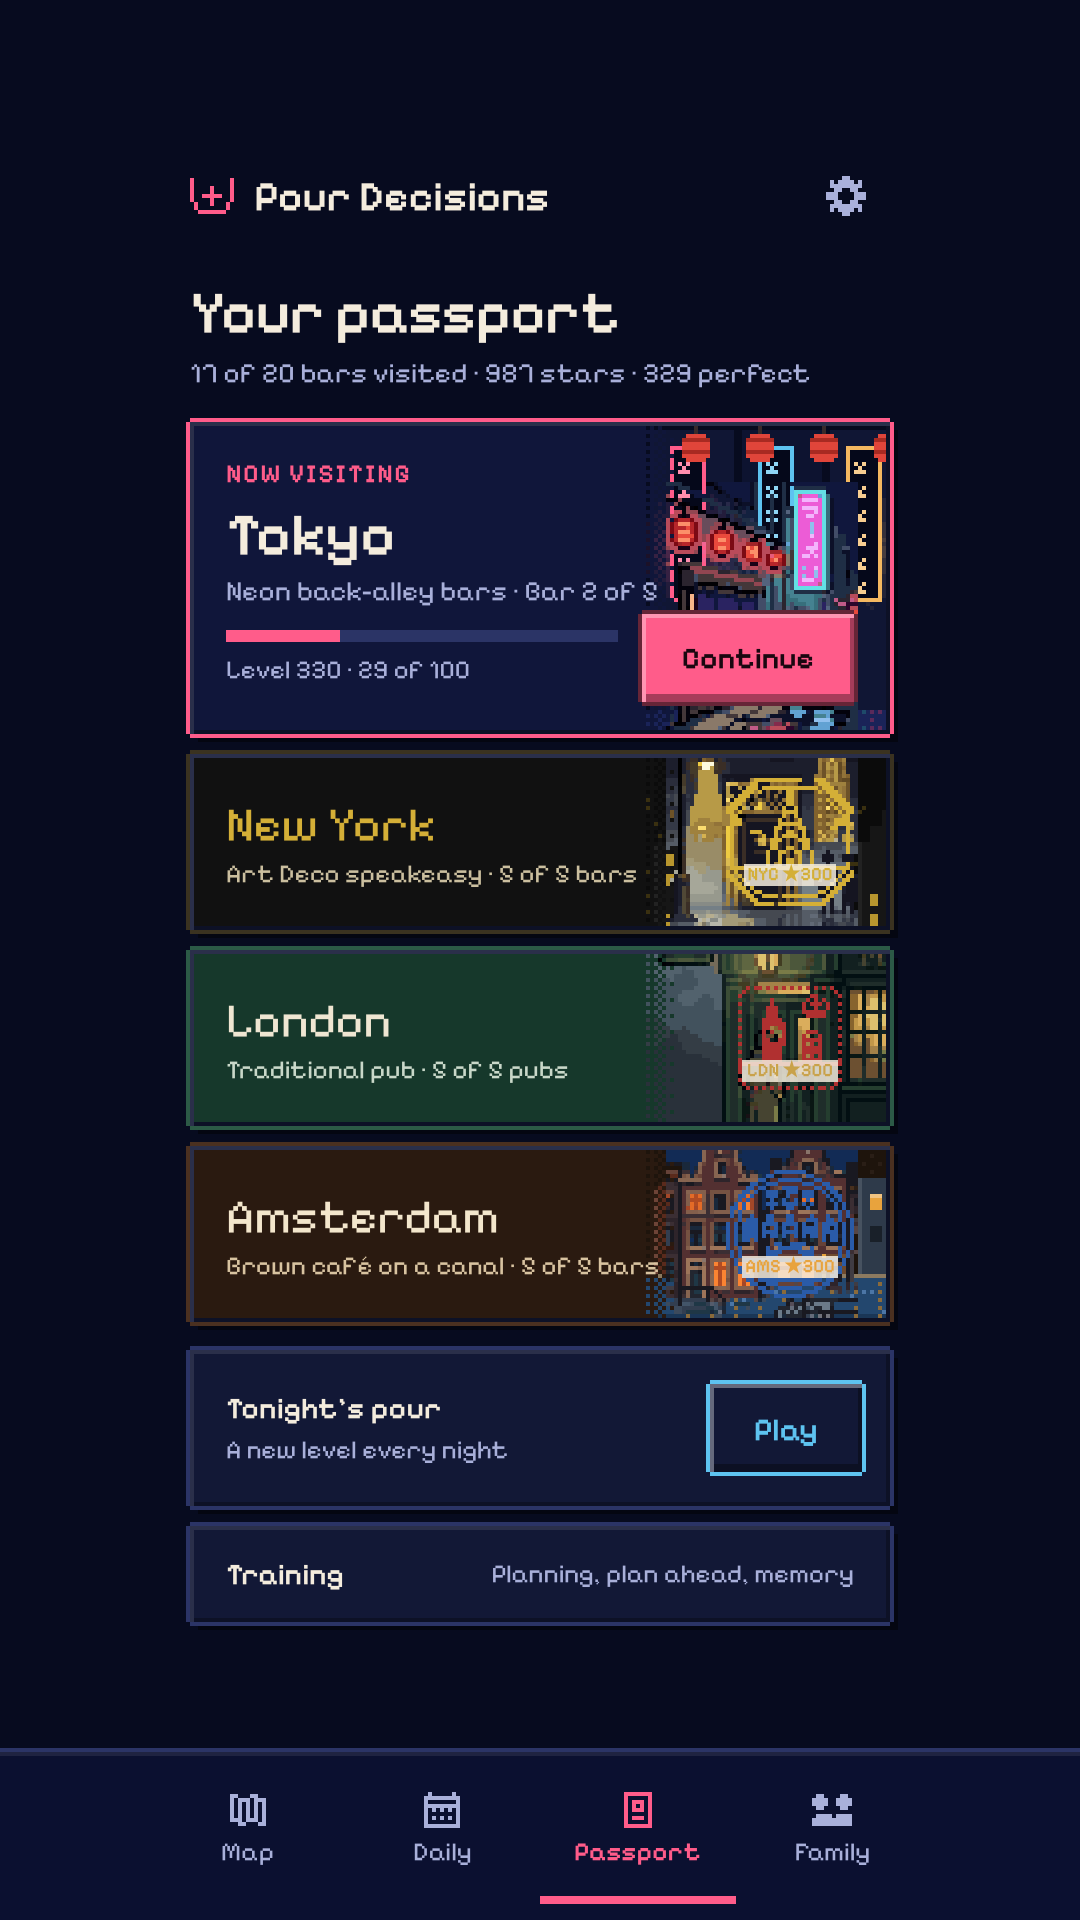
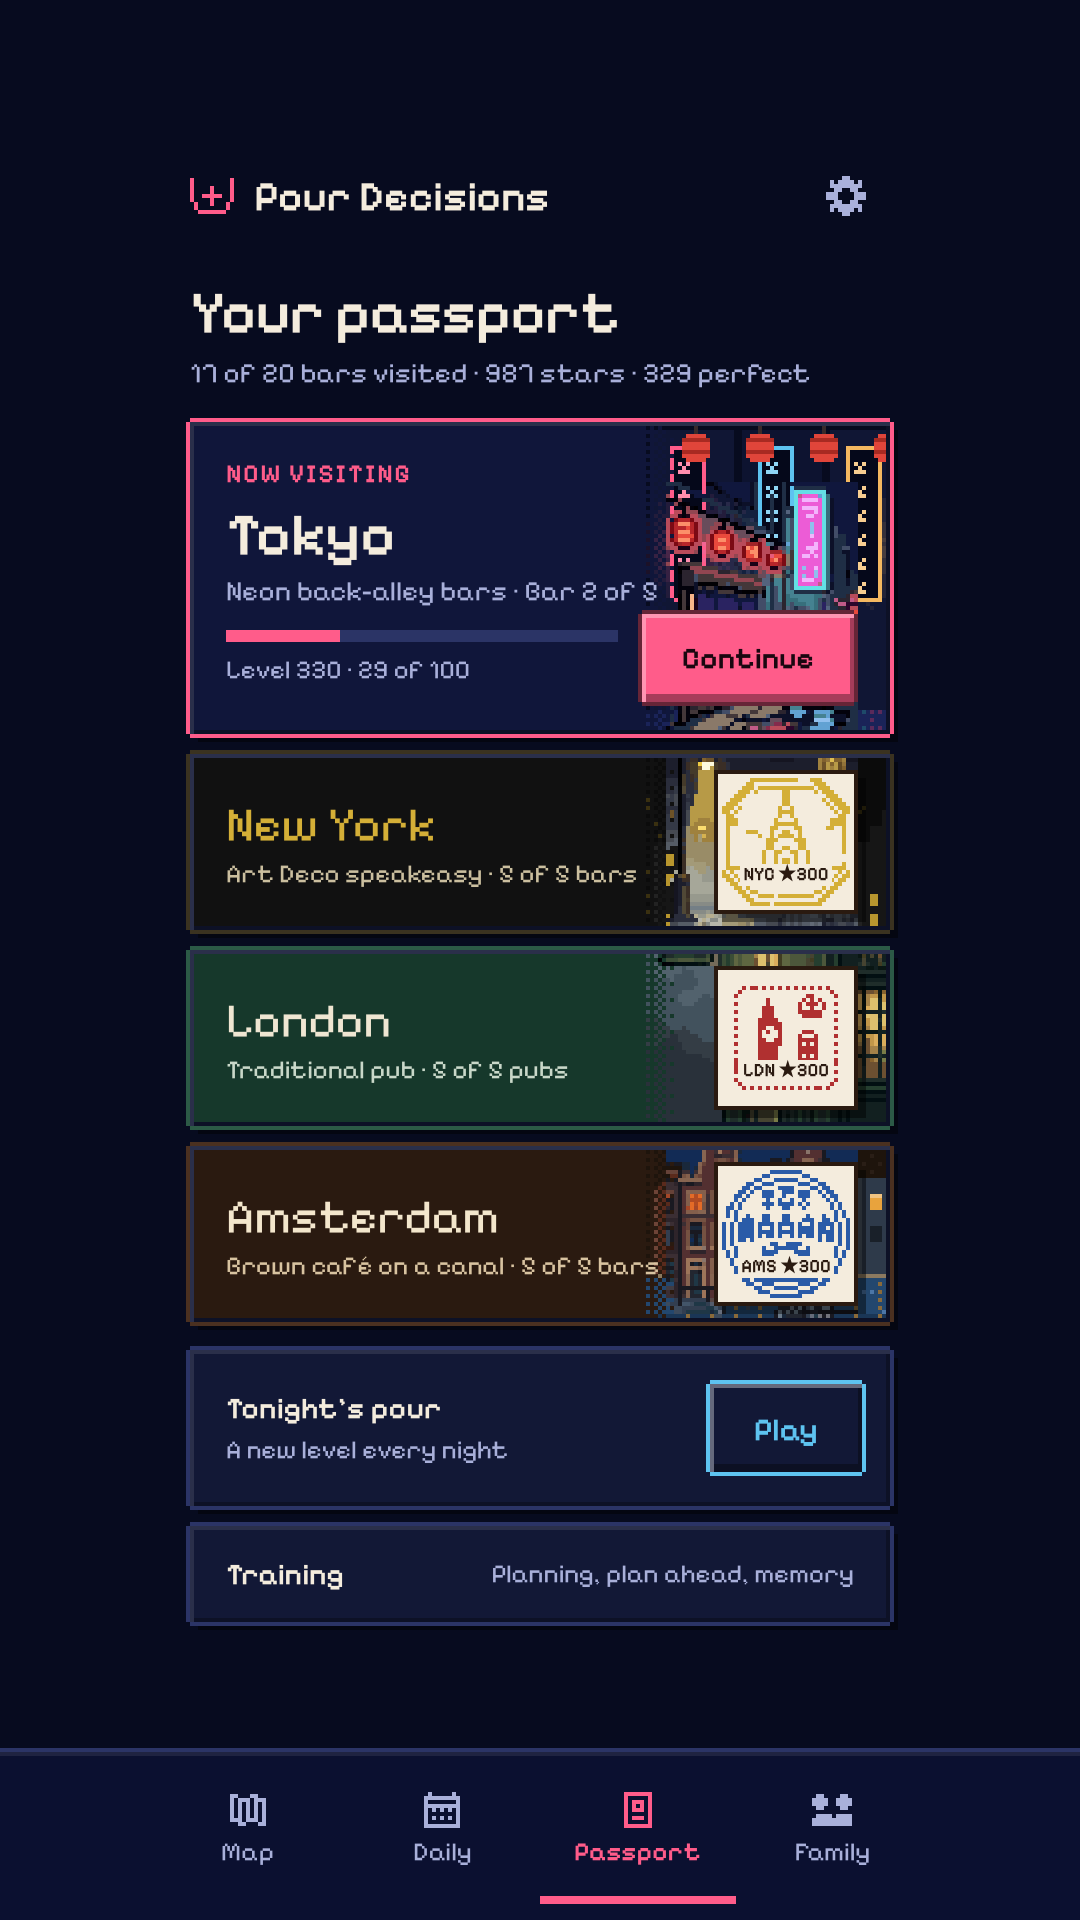
Press passport stamps onto a paper tag
The drawn stamps got lost over the new card scenes; a cream tag with a dark
pixel edge makes them read.

Changed region(s): [[0.6417, 0.375, 0.825, 0.6875]]

diff --git a/apps/web/src/style.css b/apps/web/src/style.css
@@ -2005,21 +2005,26 @@ input {
   bottom: calc(84px - var(--stick-b, 0px));
 }
 
-/* Drawn passport stamps: the 32×32 art at 2×, the code and stars in its lower band. */
+/* Drawn passport stamps: the 32×32 art at 2× pressed onto a cream paper tag, so it reads over
+   the card's scene; the code and stars sit in its lower band. */
 .pp-stamp.has-art {
-  width: 64px;
-  height: 64px;
+  width: 68px;
+  height: 68px;
   border: none !important;
-  background: center / 64px 64px no-repeat;
+  background: #f4ecdd center / 64px 64px no-repeat;
+  box-shadow:
+    0 0 0 2px #2a1a10,
+    4px 4px 0 2px rgba(0, 0, 0, 0.45);
   image-rendering: pixelated;
   justify-content: flex-end;
-  padding-bottom: 10px;
+  padding-bottom: 12px;
   font-size: 9px;
   line-height: 1;
 }
 .pp-stamp.has-art b {
   letter-spacing: 0;
-  background: color-mix(in srgb, #f4ecdd, transparent 15%);
+  color: #2a1a10;
+  background: #f4ecdd;
   padding: 1px 2px;
 }
 
